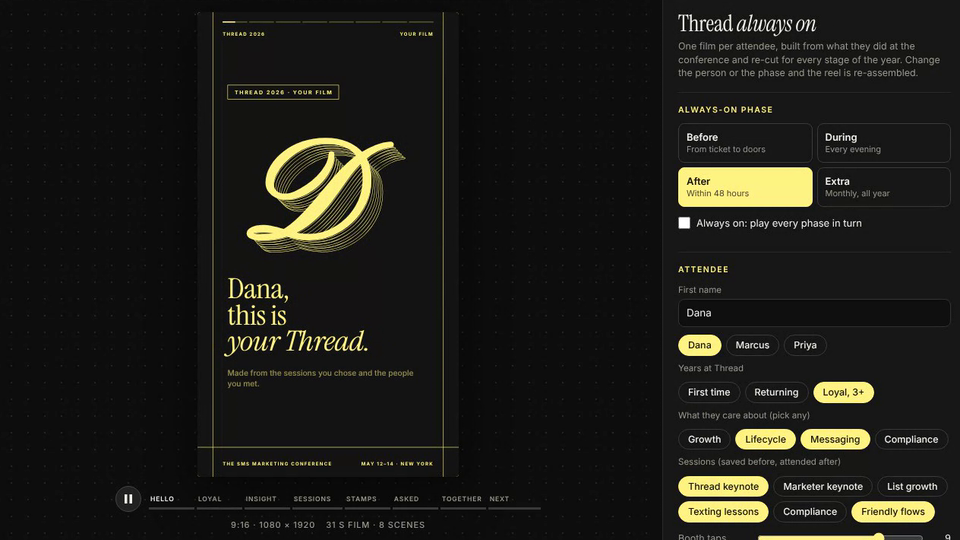
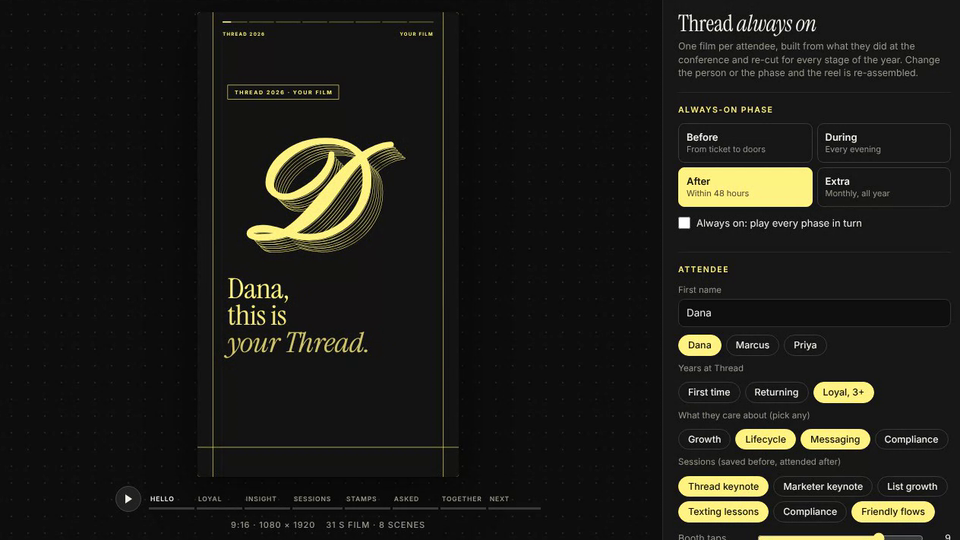
Thread Always-On Reel: remove the bottom band text
Claude-Session: https://claude.ai/code/session_01AHeBdxxBfe2B12jRVmjzot

diff --git a/thread-always-on-reel/index.html b/thread-always-on-reel/index.html
@@ -485,11 +485,9 @@ function chrome(ctx, c, T) {
   const th = c.th, fg = th.fg, g = ease(c.lt / 0.9), fs = 19, ls = 4;
   ctx.save(); ctx.strokeStyle = fg; ctx.lineWidth = 2;
   ctx.beginPath(); ctx.moveTo(GX, 0); ctx.lineTo(GX, H * g); ctx.moveTo(W - GX, H); ctx.lineTo(W - GX, H * (1 - g)); ctx.moveTo(W, GY1); ctx.lineTo(W * (1 - g), GY1); ctx.stroke(); ctx.restore();
-  const yT = 98, yB = GY1 + 76;
+  const yT = 98;
   sansText(ctx, 'THREAD 2026', GX + 40, yT, fs, fg, { wt: 700, ls });
   sansText(ctx, (PHASES.find((p) => p.id === S.ph).label + (S.ph === 'during' ? ' · day ' + S.day : '')).toUpperCase(), W - GX - 40, yT, fs, fg, { wt: 700, ls, align: 'right' });
-  sansText(ctx, 'THE SMS MARKETING CONFERENCE', GX + 40, yB, fs, fg, { wt: 700, ls });
-  sansText(ctx, 'MAY 12–14 · NEW YORK', W - GX - 40, yB, fs, fg, { wt: 700, ls, align: 'right' });
   const n = T.scenes.length, gap = 8, bw = (W - 2 * GX - 80 - gap * (n - 1)) / n;
   T.scenes.forEach((s, i) => { const x = GX + 40 + i * (bw + gap), f = i < c.idx ? 1 : i === c.idx ? cl(c.lt / s.dur, 0, 1) : 0; ctx.save(); ctx.globalAlpha = 0.28; ctx.fillStyle = fg; ctx.fillRect(x, 38, bw, 5); ctx.globalAlpha = 1; ctx.fillRect(x, 38, bw * f, 5); ctx.restore(); });
 }
